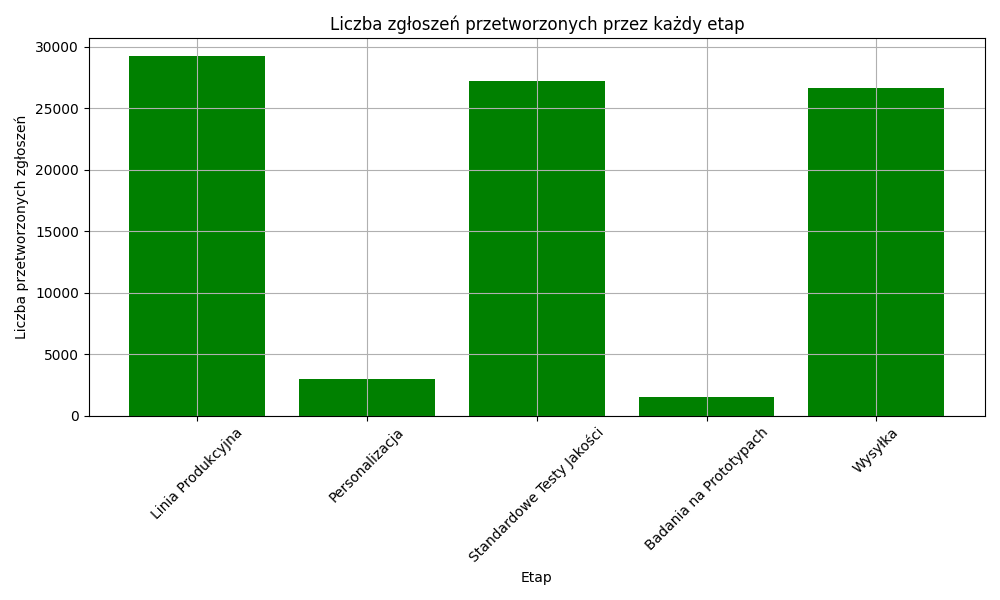
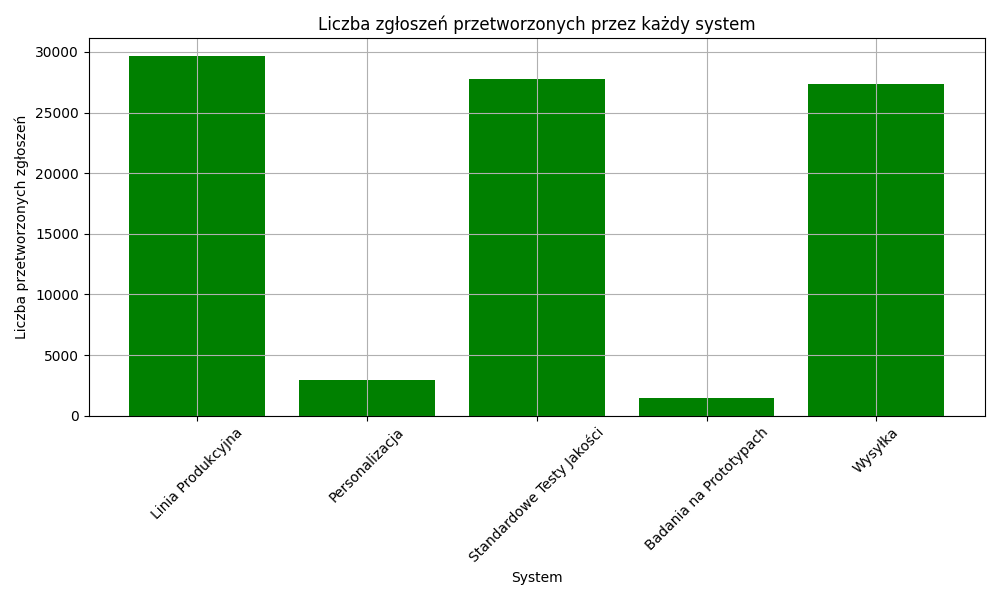
zmiany pod sprawko

diff --git a/sieć_kolejkowa/siecv2.py b/sieć_kolejkowa/siecv2.py
@@ -75,15 +75,15 @@ class Stage:
     def process(self, current_time: int):
         # Randomize capacity for this time unit
         if self.name == "Linia Produkcyjna":
-            self.capacity = random.randint(20, 80)
+            self.capacity = random.randint(30, 90)
         elif self.name == "Personalizacja":
             self.capacity = random.randint(4, 8)
         elif self.name == "Standardowe Testy Jakości":
-            self.capacity = random.randint(30, 65)
+            self.capacity = random.randint(25, 75)
         elif self.name == "Badania na Prototypach":
-            self.capacity = random.randint(1, 5)
+            self.capacity = random.randint(1, 7)
         elif self.name == "Wysyłka":
-            self.capacity = random.randint(30, 65)
+            self.capacity = random.randint(25, 75)
         # For 'Magazyn Surowców', capacity is infinite and doesn't change
 
         # Save capacity history
@@ -292,6 +292,7 @@ def symulacja(czas_trwania: int):
             personalizacja,
             testy_jakosci,
             badania_prototypow,
+            wysylka
         ]:
             stage.update_transit(current_time)
 
@@ -367,7 +368,7 @@ def symulacja(czas_trwania: int):
         avg_time_in_system = total_time_in_system / total_exited
         avg_waiting_time_overall = total_waiting_times / total_exited
         print(
-            f"Średni czas zgłoszenia w systemie: {avg_time_in_system:.2f} jednostek czasu"
+            f"Średni czas zgłoszenia w sieci: {avg_time_in_system:.2f} jednostek czasu"
         )
         print(
             f"Średni całkowity czas oczekiwania w kolejkach: {avg_waiting_time_overall:.2f} jednostek czasu"
@@ -429,7 +430,7 @@ def generate_plots(stages: List[Stage], simulation_time: int, requests: List[Req
     plt.figure(figsize=(12, 6))
     for stage in stages[1:]:  # Skip 'Magazyn Surowców'
         plt.plot(stage.time, stage.queue_lengths, label=stage.name)
-    plt.title("Długości kolejek w czasie")
+    plt.title("Długości kolejek w zależności od czasu")
     plt.xlabel("Czas")
     plt.ylabel("Liczba zgłoszeń w kolejce")
     plt.legend()
@@ -442,15 +443,15 @@ def generate_plots(stages: List[Stage], simulation_time: int, requests: List[Req
     times_in_system = [r.time_in_system for r in requests if r.time_in_system > 0]
     if times_in_system:
         plt.figure(figsize=(8, 6))
-        plt.hist(times_in_system, bins=20, edgecolor="black", label="Czas w systemie")
+        plt.hist(times_in_system, bins=20, edgecolor="black", label="Czas w sieci")
         avg_time_in_system = sum(times_in_system) / len(times_in_system)
         plt.axvline(
             x=avg_time_in_system,
             color="red",
             linestyle="--",
-            label="Średni czas w systemie",
+            label="Średni czas w sieci",
         )
-        plt.title("Rozkład czasu spędzonego w systemie przez zgłoszenia")
+        plt.title("Rozkład czasu spędzonego w sieci przez zgłoszenia")
         plt.xlabel("Czas (jednostki czasu)")
         plt.ylabel("Liczba zgłoszeń")
         plt.legend()
@@ -461,8 +462,10 @@ def generate_plots(stages: List[Stage], simulation_time: int, requests: List[Req
 
     # 3. Distribution of Waiting Time in Queues
     all_waiting_times = []
-    for stage in stages[1:]:  # Exclude 'Magazyn Surowców'
-        all_waiting_times.extend(stage.waiting_times)
+    # for stage in stages[1:]:  # Exclude 'Magazyn Surowców'
+    #     all_waiting_times.extend(stage.waiting_times)
+    for request in requests:
+        all_waiting_times.append(request.waiting_time)
     if all_waiting_times:
         plt.figure(figsize=(8, 6))
         plt.hist(
@@ -491,7 +494,7 @@ def generate_plots(stages: List[Stage], simulation_time: int, requests: List[Req
     plt.figure(figsize=(12, 6))
     for stage in stages[1:]:
         plt.plot(stage.time, stage.processed_per_time, label=stage.name)
-    plt.title("Liczba przetworzonych zgłoszeń w czasie")
+    plt.title("Liczba przetworzonych zgłoszeń w danej jednostce czasu")
     plt.xlabel("Czas")
     plt.ylabel("Liczba przetworzonych zgłoszeń")
     plt.legend()
@@ -504,7 +507,7 @@ def generate_plots(stages: List[Stage], simulation_time: int, requests: List[Req
     plt.figure(figsize=(12, 6))
     for stage in stages[1:]:
         plt.plot(stage.time, stage.avg_waiting_times, label=stage.name)
-    plt.title("Średni czas oczekiwania w kolejce w czasie")
+    plt.title("Średni czas oczekiwania w kolejce w danej jednostce czasu")
     plt.xlabel("Czas")
     plt.ylabel("Średni czas oczekiwania (jednostki czasu)")
     plt.legend()
@@ -521,7 +524,7 @@ def generate_plots(stages: List[Stage], simulation_time: int, requests: List[Req
     ]
     plt.figure(figsize=(10, 6))
     plt.bar(stage_names, avg_utilizations, color="skyblue")
-    plt.title("Średnie wykorzystanie etapów")
+    plt.title("Średnie wykorzystanie systemów")
     plt.xlabel("Etap")
     plt.ylabel("Wykorzystanie (%)")
     plt.xticks(rotation=45)
@@ -534,8 +537,8 @@ def generate_plots(stages: List[Stage], simulation_time: int, requests: List[Req
     total_processed_by_stage = [sum(stage.statistics.values()) for stage in stages[1:]]
     plt.figure(figsize=(10, 6))
     plt.bar(stage_names, total_processed_by_stage, color="green")
-    plt.title("Liczba zgłoszeń przetworzonych przez każdy etap")
-    plt.xlabel("Etap")
+    plt.title("Liczba zgłoszeń przetworzonych przez każdy system")
+    plt.xlabel("System")
     plt.ylabel("Liczba przetworzonych zgłoszeń")
     plt.xticks(rotation=45)
     plt.grid(True)
@@ -550,11 +553,11 @@ def find_probability(state: List[int]) -> float:
 
     probability = 1
 
-    mi_produkcja = 50
+    mi_produkcja = 60
     mi_personalizacja = 6
-    mi_testy = 47.5
-    mi_badania = 3
-    mi_wysylka = 47.5
+    mi_testy = 50
+    mi_badania = 4
+    mi_wysylka = 50
 
     p_mag_produkcja_standard, p_mag_produkcja_person, p_mag_produkcja_prototyp = 1, 1, 1
     p_produkcja_testy_standard = 0.99
@@ -623,9 +626,9 @@ def calc_prob(ro: float, amount: int):
 
 
 def main():
-    state = [1, 1, 1, 1, 1]
-    prob = find_probability(state=state)
-    print(prob)
+    # state = [2, 3, 2, 1, 2]
+    # prob = find_probability(state=state)
+    # print(prob)
     czas_trwania = int(input("Podaj czas trwania symulacji (w jednostkach czasu): "))
     symulacja(czas_trwania)
 
